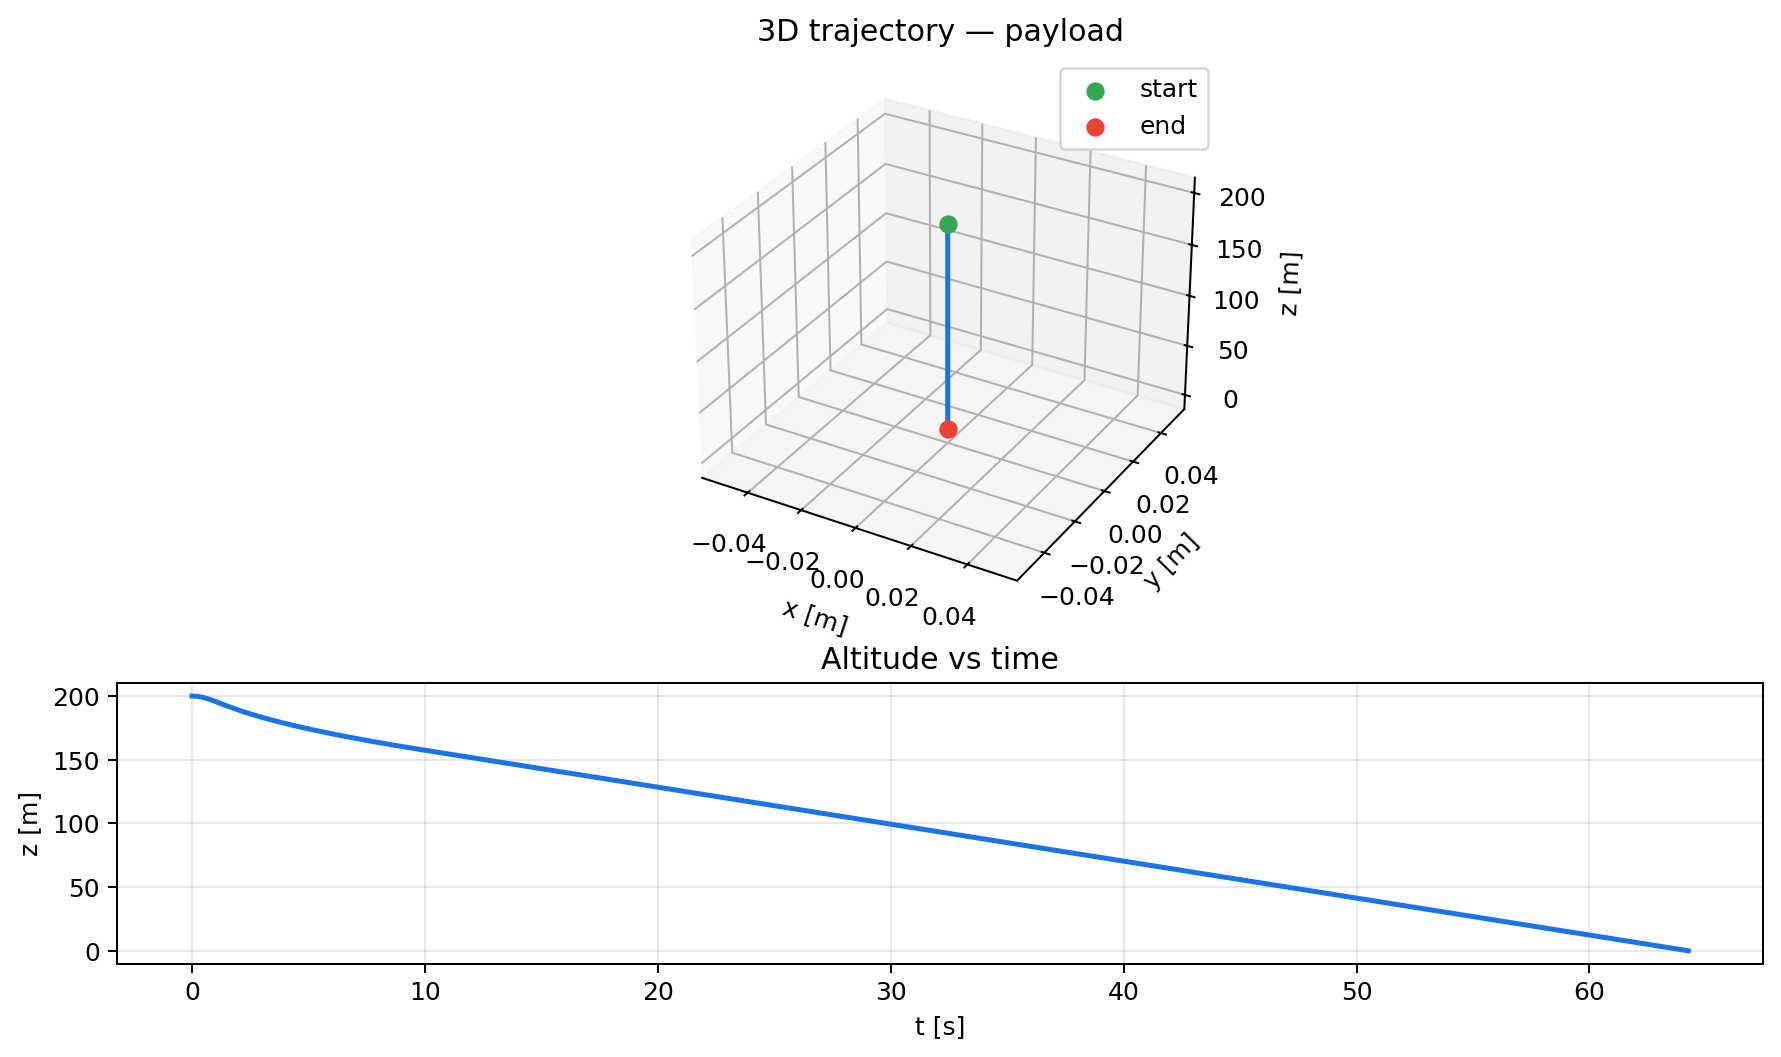
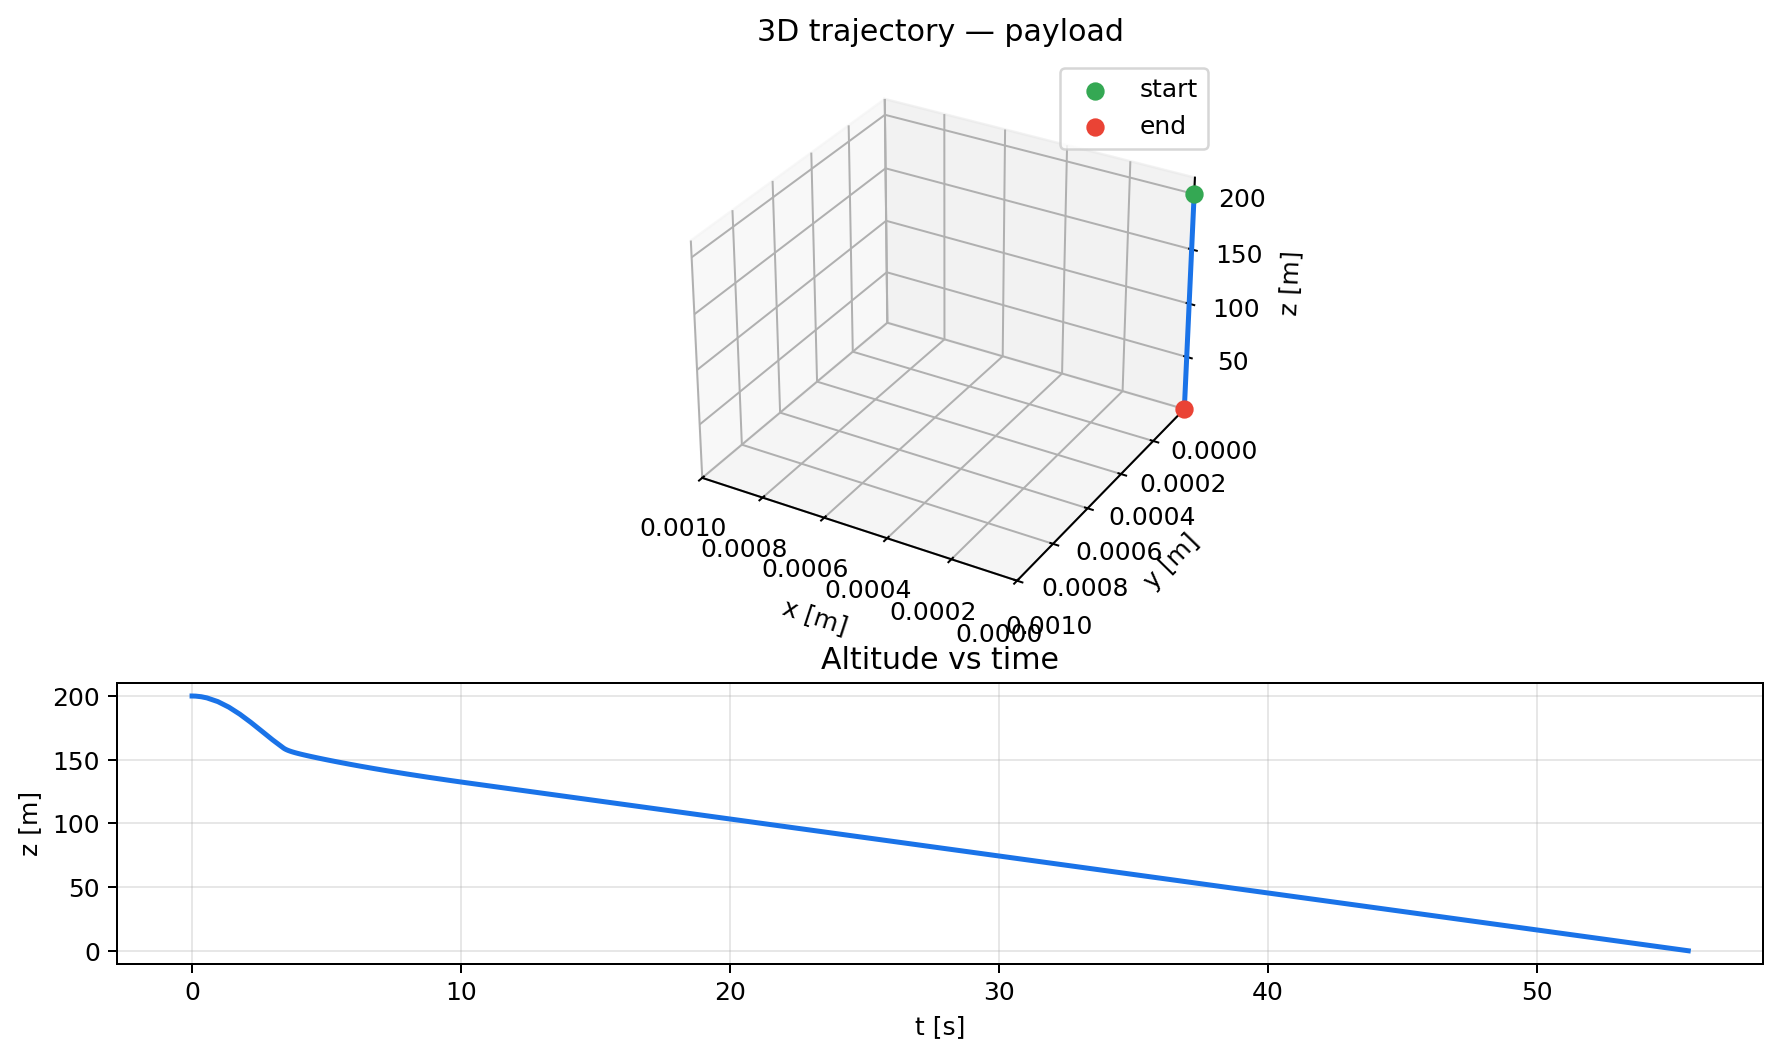
Example ivp activation speed change

diff --git a/hybridsim/forces.py b/hybridsim/forces.py
@@ -71,12 +71,13 @@ class ParachuteDrag(Drag):
         area: float | Callable[[float, RigidBody6DOF], float] = 1.0,
         mode: str = "quadratic",
         activation_time: float = 0.0,
-        activation_altitude: float = 100.0,
-        activation_velocity: float = -50.0,
+        activation_altitude: float | None = None,
+        activation_velocity: float = 50.0,
     ) -> None:
         super().__init__(rho=rho, Cd=Cd, area=area, mode=mode)
         self.activation_time = activation_time
-        self.activation_altitude = activation_altitude
+        self.activation_altitude = (None if activation_altitude is None
+                                else float(activation_altitude))
         self.activation_velocity = activation_velocity
         self.activation_status = False
 

diff --git a/examples/parachute_ivp.py b/examples/parachute_ivp.py
@@ -36,7 +36,7 @@ def build_world() -> World:
         return min(15.0, 0.5 + 1.5 * t)
 
     payload.per_body_forces.append(Drag(rho=1.225, Cd=1.0, area=0.3, mode="quadratic"))
-    canopy.per_body_forces.append(ParachuteDrag(rho=1.225, Cd=1.5, area=5))
+    canopy.per_body_forces.append(ParachuteDrag(rho=1.225, Cd=1.5, area=5, activation_velocity=5))
 
     # Rigid tether (distance constraint)
     tether = RigidTetherJoint(pidx, cidx, [0,0,0], [0,0,0], length=5.0)
